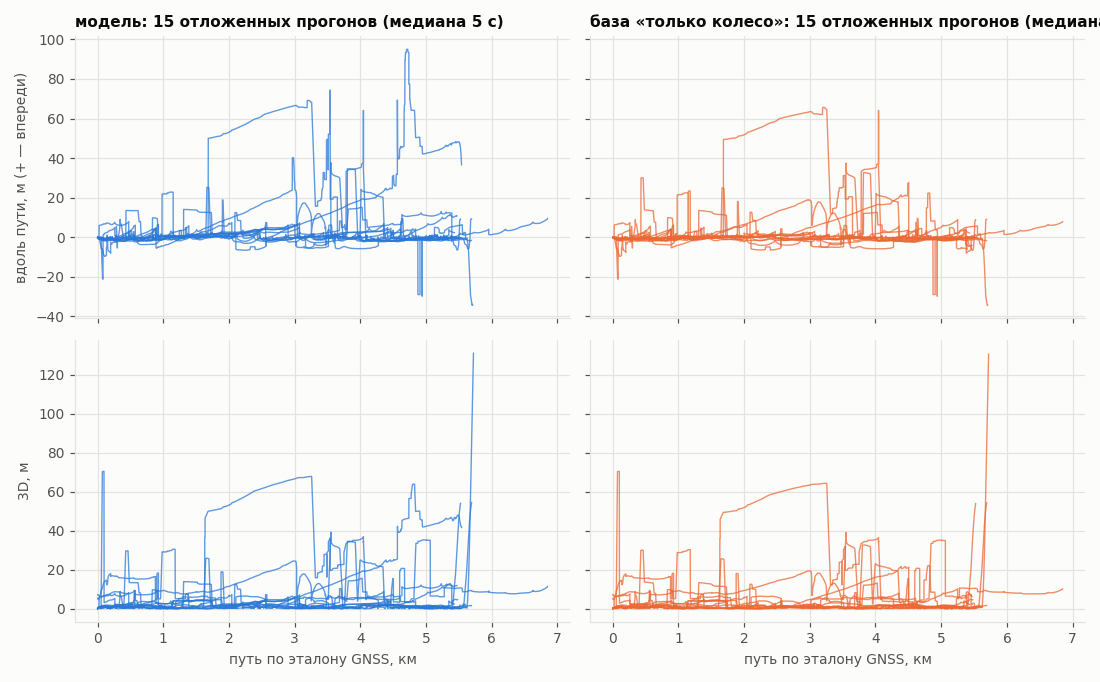
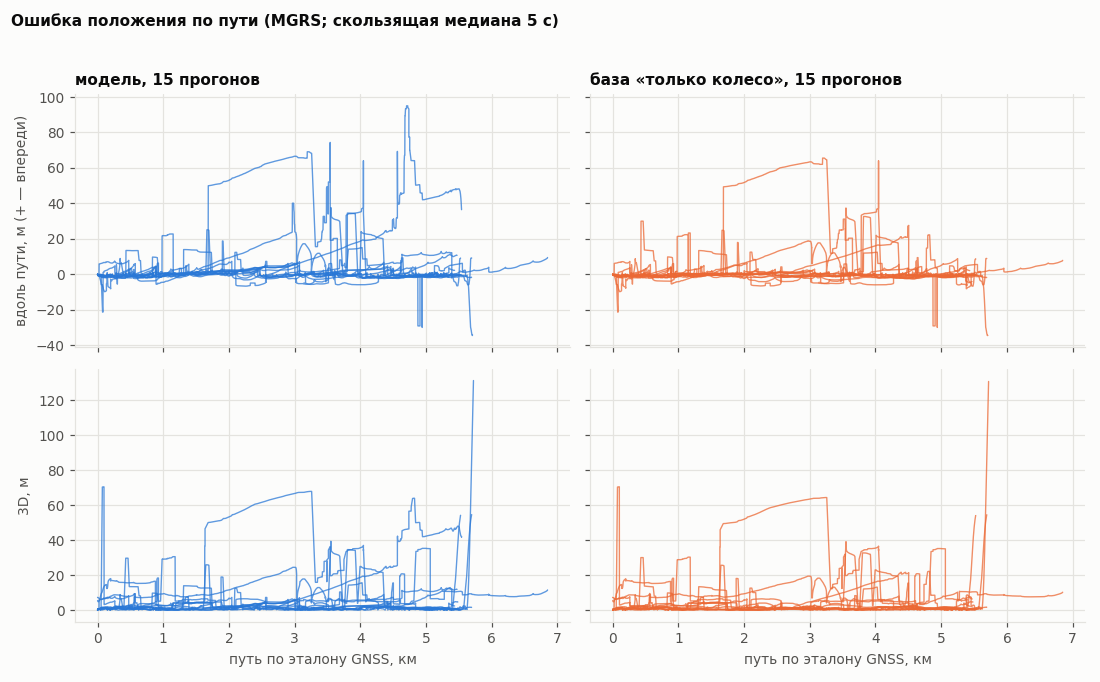
Документы: перегенерирован EVAL.md, результат воспроизводится побайтно

diff --git a/tools/eval_report.py b/tools/eval_report.py
@@ -524,7 +524,9 @@ def render(result, timing, args, pics, root):
     shas = timing.get("sha256") or {}
     if shas:
         A("sha256 JSON этого прогона: " + ", ".join(f"`{k}` {v[:12]}" for k, v in shas.items()) + ".")
-    A("Проверки воспроизводимости (25.09, код до правок): `--quick --check-determinism` — JSON двух "
+    A("Проверки воспроизводимости (25.09, код до правок): два полных прогона подряд дали "
+      "побайтно одинаковые `summary.json`, `runs.json`, `inject.json` (время 12,2 и 15,2 мин при "
+      "`--cpus 4` и соседних контейнерах, CPU ~32 мин); `--quick --check-determinism` — JSON двух "
       "проходов совпали побайтно; чистый `git clone` ветки с пустым кэшем (кэш 113 прогонов и карта "
       "собраны из `data/` за 5,7 мин) дал `runs.json` с тем же sha256 (6377ada2e5b0…), что и "
       "основной прогон. Карта напарника `analysis/cache/track_map_train.npz` (собрана на Windows) "

diff --git a/docs/EVAL.md b/docs/EVAL.md
@@ -1,6 +1,6 @@
 # Оценка точности и устойчивости (tools/eval.py)
 
-> **Версия чисел: до правок (пакет = main 56933cc, 25.09).** Документ целиком сгенерирован `tools/eval.py` (не править руками). Код пакета: sha `5f634e9a5a63564d`, git wp/eval 8c6b8f6; пакет = main 56933cc. Лист: json (запасной: оценочного листа config/eval/ нет) (sha `383f2e64dd90d682`). Карта: оценочная: только обучающие прогоны (build_map.py train, ключ кода bb9fbbdf) (sha `eaa47081ac8cc1a7`). GNSS в связку: первые 3 с. Прогонов: 15.
+> **Версия чисел: до правок (пакет = main 56933cc, 25.09).** Документ целиком сгенерирован `tools/eval.py` (не править руками). Код пакета: sha `5f634e9a5a63564d`, git wp/eval 6969b15; пакет = main 56933cc. Лист: json (запасной: оценочного листа config/eval/ нет) (sha `383f2e64dd90d682`). Карта: оценочная: только обучающие прогоны (build_map.py train, ключ кода bb9fbbdf) (sha `eaa47081ac8cc1a7`). GNSS в связку: первые 3 с. Прогонов: 15.
 >
 > **УТЕЧКА: таблица привода и масштаб подогнаны по всем 122 bag, включая отложенные; q_v, delay, tau подбирались на отложенных.** Эти числа не отчётные, пока нет оценочного листа.
 
@@ -46,9 +46,9 @@ docker run --rm --cpus 4 -v ${PWD}:/repo -v <каталог с bag>:/repo/data:r
 
 Результаты: `out/eval/summary.json` (итоги), `runs.json` (по прогонам), `inject.json` (инъекции), `timing.json` (время, sha256 JSON, git; не детерминирован). Тесты инструментов: `python3 -m pytest tools/eval_selftest.py -q`.
 
-Этот прогон: 12,2 мин, процессов 4 (на машине параллельно работали контейнеры других агентов — время предварительное).
+Этот прогон: 15,2 мин, процессов 4 (на машине параллельно работали контейнеры других агентов — время предварительное).
 sha256 JSON этого прогона: `summary.json` 408a941b6c45, `runs.json` 6377ada2e5b0, `inject.json` e797d1b16b5f.
-Проверки воспроизводимости (25.09, код до правок): `--quick --check-determinism` — JSON двух проходов совпали побайтно; чистый `git clone` ветки с пустым кэшем (кэш 113 прогонов и карта собраны из `data/` за 5,7 мин) дал `runs.json` с тем же sha256 (6377ada2e5b0…), что и основной прогон. Карта напарника `analysis/cache/track_map_train.npz` (собрана на Windows) совпадает с пересобранной во всех массивах, кроме множителя пути (разница 4·10⁻¹⁶), поэтому не используется.
+Проверки воспроизводимости (25.09, код до правок): два полных прогона подряд дали побайтно одинаковые `summary.json`, `runs.json`, `inject.json` (время 12,2 и 15,2 мин при `--cpus 4` и соседних контейнерах, CPU ~32 мин); `--quick --check-determinism` — JSON двух проходов совпали побайтно; чистый `git clone` ветки с пустым кэшем (кэш 113 прогонов и карта собраны из `data/` за 5,7 мин) дал `runs.json` с тем же sha256 (6377ada2e5b0…), что и основной прогон. Карта напарника `analysis/cache/track_map_train.npz` (собрана на Windows) совпадает с пересобранной во всех массивах, кроме множителя пути (разница 4·10⁻¹⁶), поэтому не используется.
 
 ## 2. Методика
 
@@ -309,7 +309,7 @@ sha256 JSON этого прогона: `summary.json` 408a941b6c45, `runs.json` 
 
 Строки `audit25_*` — замеры аудита ROS2_E2E 25.09 на коде до правок, bag ~4,5 мин, соседние контейнеры: предварительно. Отчётный замер (полный bag ≥ 20 мин, `--cpus 2 --memory 512m`, машина без соседей) делает поток infra (WP8).
 
-Офлайн-скорость связки в этом прогоне (не замер ноды): 959 входных сообщений в секунду на процесс вместе с базой — предварительно, при соседних контейнерах.
+Офлайн-скорость связки в этом прогоне (не замер ноды): 763 входных сообщений в секунду на процесс вместе с базой — предварительно, при соседних контейнерах.
 
 ## 8. Сверка с аудитом (critic_offline.py sub15)
 
